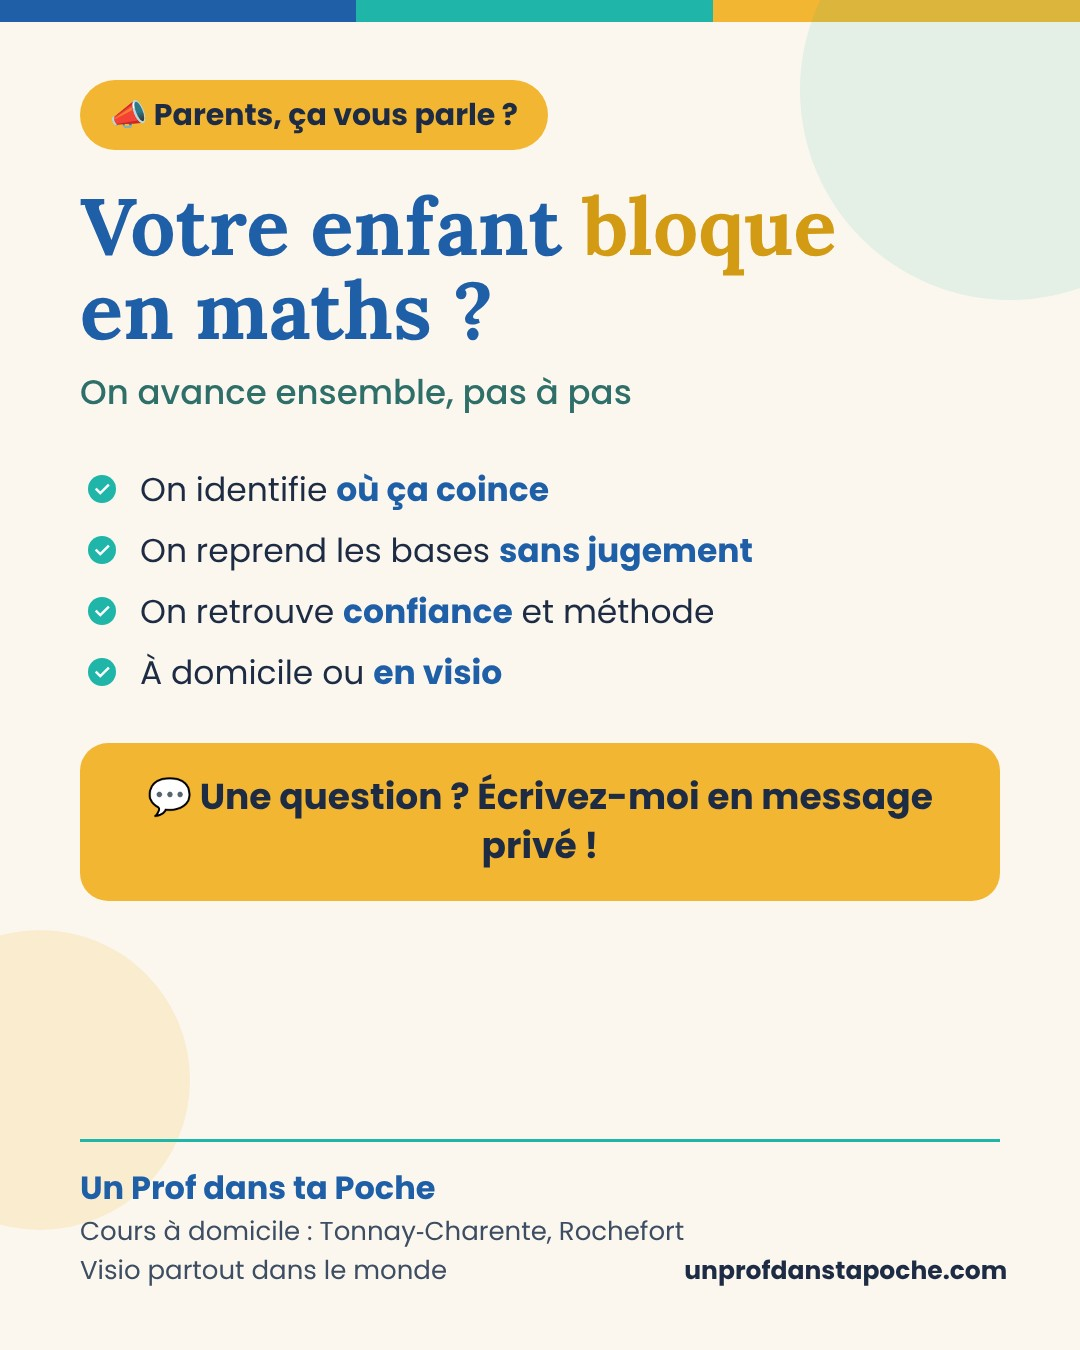
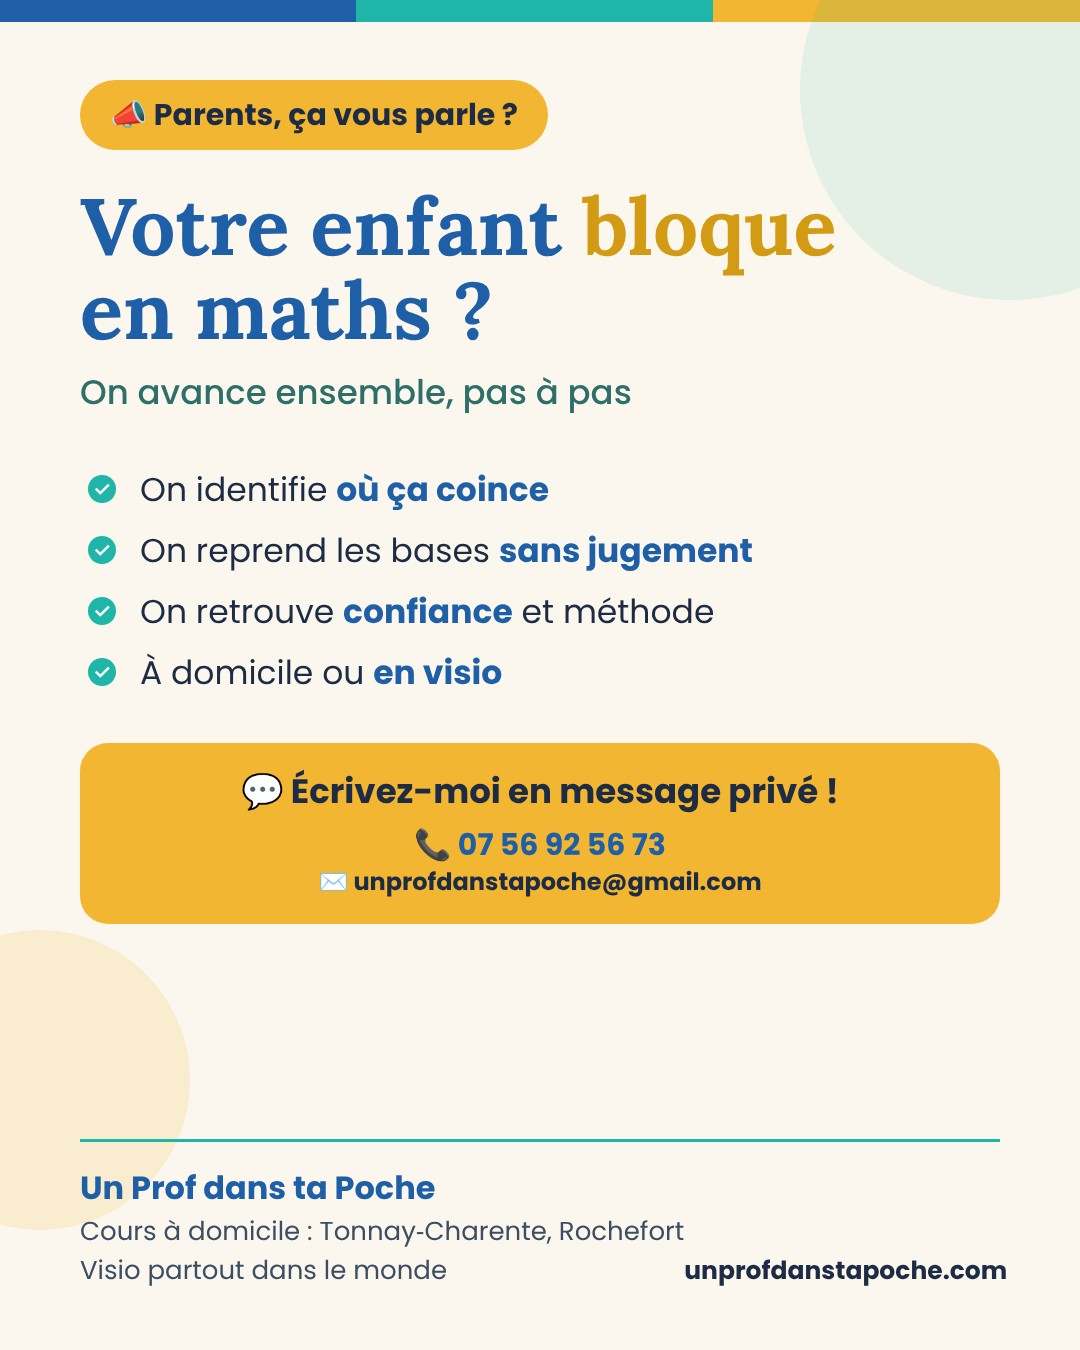
Facebook : téléphone et e-mail sur les pubs et dans les légendes
Claude-Session: https://claude.ai/code/session_01VCse4qVLUc4mZ51owcuTmf

Changed region(s): [[0.0611, 0.56, 0.9472, 0.6844]]

diff --git a/outils/facebook/novembre_2026.py b/outils/facebook/novembre_2026.py
@@ -59,13 +59,13 @@ def svg_pistolet():
           '<text x="830" y="150" font-family="Poppins" font-weight="700" font-size="40" fill="#f07a2f" text-anchor="middle">Paf !</text>')
     return s + '</svg>'
 
-APPEL = "💬 Une question ? Écrivez-moi en message privé !"
+APPEL = "💬 Écrivez-moi en message privé !"
 SIGNATURE = ("\n\n📍 Cours à domicile autour de Tonnay-Charente, Rochefort, Saint-Hippolyte et alentours, ou en visio.\n"
-             "💬 Une question ? Écrivez-moi en message privé !\n👉 unprofdanstapoche.com")
+             "💬 Une question ? Écrivez-moi en message privé !\n📞 07 56 92 56 73 · ✉ unprofdanstapoche@gmail.com\n👉 unprofdanstapoche.com")
 
 posts = [
  {"date": "2026-11-04", "nom": "pub-soutien-college-lycee", "type": "pub", "tag": "📣 Mes accompagnements",
-  "titre": "Les maths et la physique,<br><span>sans stress</span>", "sous_titre": "De la 6e à la Terminale, bac pro compris",
+  "titre": "Maths et physique,<br><span>sans stress</span>", "sous_titre": "De la 6e à la Terminale, bac pro compris",
   "points": ["Cours à domicile <b>autour de Tonnay‑Charente</b>, ou en visio",
              "Une méthode qui part <b>de votre enfant</b> : ses besoins, ses passions",
              "Enseignante de l'Éducation nationale, <b>17 ans</b> d'expérience",
@@ -197,12 +197,12 @@ posts = [p for p in posts if p["nom"] != "pub-ateliers-visio"]
 posts.append({"date": "2026-11-04", "nom": "pub-ateliers-dimanche", "type": "pub", "tag": "📣 Les ateliers du dimanche",
   "titre": "Petit budget<br>pour <span>petit coef</span> !", "sous_titre": "Des ateliers maths en visio, dès le dimanche 8 novembre",
   "points": POINTS_ATELIERS, "appel": "📩 Inscriptions en message privé !",
-  "legende": LEG_ATELIERS + "🚀 Premier rendez-vous : dimanche 8 novembre.\n📩 Inscriptions en message privé !\n👉 unprofdanstapoche.com"})
+  "legende": LEG_ATELIERS + "🚀 Premier rendez-vous : dimanche 8 novembre.\n📩 Inscriptions en message privé ou au 07 56 92 56 73 !\n✉ unprofdanstapoche@gmail.com\n👉 unprofdanstapoche.com"})
 posts.append({"date": "2026-11-06", "nom": "rappel-ateliers-dimanche", "type": "pub", "tag": "⏰ C'est ce dimanche !",
   "titre": "Les ateliers<br>du <span>dimanche</span>", "sous_titre": "Dimanche 8 novembre, en visio sur Google Meet",
   "points": POINTS_ATELIERS, "appel": "📩 Il reste des places : écrivez-moi en MP !",
   "legende": "⏰ C'est ce dimanche ! Les ateliers maths en visio démarrent le 8 novembre.\n\n" + LEG_ATELIERS
-             + "📩 Il reste des places : réservez en message privé !\n👉 unprofdanstapoche.com"})
+             + "📩 Il reste des places : réservez en message privé ou au 07 56 92 56 73 !\n✉ unprofdanstapoche@gmail.com\n👉 unprofdanstapoche.com"})
 posts.sort(key=lambda p: p["date"])
 
 racine = pathlib.Path(__file__).resolve().parents[2]

diff --git a/outils/facebook/gabarit_fb.py b/outils/facebook/gabarit_fb.py
@@ -33,7 +33,9 @@ li::before{content:"";position:absolute;left:8px;top:15px;width:28px;height:28px
  background:radial-gradient(circle at 35% 35%,#ffe9a8,#e0a526 60%,#a8740c)}
 li b{color:#1f5fa8}
 ul.check li::before{content:"✓";background:#1fb5a8;color:#fff;font-weight:700;font-size:20px;text-align:center;line-height:28px}
-.appel{margin-top:40px;background:#f2b632;border-radius:28px;padding:30px 40px;font-size:36px;font-weight:600;text-align:center;line-height:1.35}
+.appel{margin-top:40px;background:#f2b632;border-radius:28px;padding:26px 36px;font-size:34px;font-weight:600;text-align:center;line-height:1.35}
+.contact{display:block;margin-top:10px;font-size:30px;font-weight:700;color:#1f5fa8;white-space:nowrap}
+.contact small{display:block;font-size:24px;font-weight:600;color:#1d2b44}
 .quote{font-family:'Lora',serif;font-style:italic;font-weight:600;font-size:66px;line-height:1.25;color:#1f5fa8;margin-top:40px}
 .qmark{font-family:'Lora',serif;font-size:260px;line-height:.6;color:#1fb5a8;opacity:.5;margin-top:70px;height:120px}
 .auteur{font-size:36px;margin-top:40px;color:#2f6f6a;font-weight:600}
@@ -44,6 +46,8 @@ ul.check li::before{content:"✓";background:#1fb5a8;color:#fff;font-weight:700;
 .foot span:first-child{white-space:nowrap}
 .foot .site{font-weight:600;color:#1d2b44;text-align:right;font-size:25px}
 """
+
+CONTACT = '<span class="contact">📞 07 56 92 56 73<small>✉ unprofdanstapoche@gmail.com</small></span>'
 
 FOOT = """<div class="foot"><span><b>Un Prof dans ta Poche</b>Cours à domicile : Tonnay‑Charente, Rochefort<br>Visio partout dans le monde</span>
 <span class="site">unprofdanstapoche.com</span></div>"""
@@ -57,7 +61,7 @@ def corps(p):
     if t == "pub":
         pts = "".join(f"<li>{x}</li>" for x in p["points"])
         return (f'<span class="tag jaune">{p["tag"]}</span><h1>{p["titre"]}</h1><p class="sub">{p["sous_titre"]}</p>'
-                f'<ul class="check" style="margin-top:44px">{pts}</ul><div class="appel">{p["appel"]}</div>')
+                f'<ul class="check" style="margin-top:44px">{pts}</ul><div class="appel">{p["appel"]}{CONTACT}</div>')
     if t == "citation":
         return (f'<span class="tag">🌱 La phrase de la semaine</span><div class="qmark">“</div>'
                 f'<p class="quote">{p["citation"]}</p><p class="auteur">— {p["auteur"]}</p><p class="note">{p["note"]}</p>')

diff --git a/outils/facebook/LIGNE-FACEBOOK.md b/outils/facebook/LIGNE-FACEBOOK.md
@@ -10,7 +10,7 @@ Générateur : `outils/facebook/gabarit_fb.py` (types `pub`, `outil`, `citation`
 Pied de page fixe : cours à domicile Tonnay-Charente, Rochefort · visio partout · unprofdanstapoche.com.
 
 ## Rythme
-- **Mercredi — « Ta pub »** (type `pub`) : une offre par semaine, en rotation : soutien maths et physique-chimie 6e–Terminale (bac pro compris) ; primaire CP–CM2 par le jeu et le matériel Montessori ; « votre enfant bloque ? » (confiance, bases) ; **ateliers maths du dimanche en visio** (Google Meet, 7,80 € la séance d'1 h, depuis le 8/11/2026 : 10 h–11 h CAP, 13 h–14 h épreuve du bac pro, 18 h–19 h épreuve anticipée de maths de 1re ; slogan « Petit budget pour petit coef ! » ; inscription en MP) ; cours en visio pour les familles éloignées ou à l'étranger ; stages pendant les vacances scolaires (sans date ni prix inventés). Appel à l'action : message privé.
+- **Mercredi — « Ta pub »** (type `pub`) : une offre par semaine, en rotation : soutien maths et physique-chimie 6e–Terminale (bac pro compris) ; primaire CP–CM2 par le jeu et le matériel Montessori ; « votre enfant bloque ? » (confiance, bases) ; **ateliers maths du dimanche en visio** (Google Meet, 7,80 € la séance d'1 h, depuis le 8/11/2026 : 10 h–11 h CAP, 13 h–14 h épreuve du bac pro, 18 h–19 h épreuve anticipée de maths de 1re ; slogan « Petit budget pour petit coef ! » ; inscription en MP) ; cours en visio pour les familles éloignées ou à l'étranger ; stages pendant les vacances scolaires (sans date ni prix inventés). Appel à l'action : message privé ; le gabarit ajoute automatiquement téléphone et e-mail dans l'encadré jaune des pubs.
 - **Samedi — « Coulisse de prof »** (type `outil`) : présenter un outil ou une pratique pédagogique de Séverine, avec une illustration SVG dessinée. Idées déjà utilisables : soroban (boulier japonais), calculatrice Numworks, escape games pédagogiques qu'elle crée, jeu de calcul mental « CALCULO' DÉFI ! », barrettes de perles colorées Montessori, timbres Montessori, jeux de révision, fiches de révision, partir des passions de l'élève pour reformuler. **Ne jamais inventer d'histoire d'élève** : les récits d'accompagnement viennent uniquement de faits donnés par Séverine (anonymisés).
 - **Dimanche — « La phrase de la semaine »** (type `citation`) : soit une citation dont l'auteur est **certain** (sinon s'abstenir), soit une phrase de Séverine signée « Séverine, Un Prof dans ta Poche » dans son style (encourageant : « tu en es capable », ne jamais rien lâcher, l'erreur fait partie de l'apprentissage). Alterner.
 
@@ -18,6 +18,7 @@ Pied de page fixe : cours à domicile Tonnay-Charente, Rochefort · visio partou
 80–150 mots, phrases courtes, 2–4 emojis, vouvoiement des parents. Finir par la signature :
 📍 Cours à domicile autour de Tonnay-Charente, Rochefort, Saint-Hippolyte et alentours, ou en visio.
 💬 Une question ? Écrivez-moi en message privé !
+📞 07 56 92 56 73 · ✉ unprofdanstapoche@gmail.com
 👉 unprofdanstapoche.com
 
 ## Livraison
